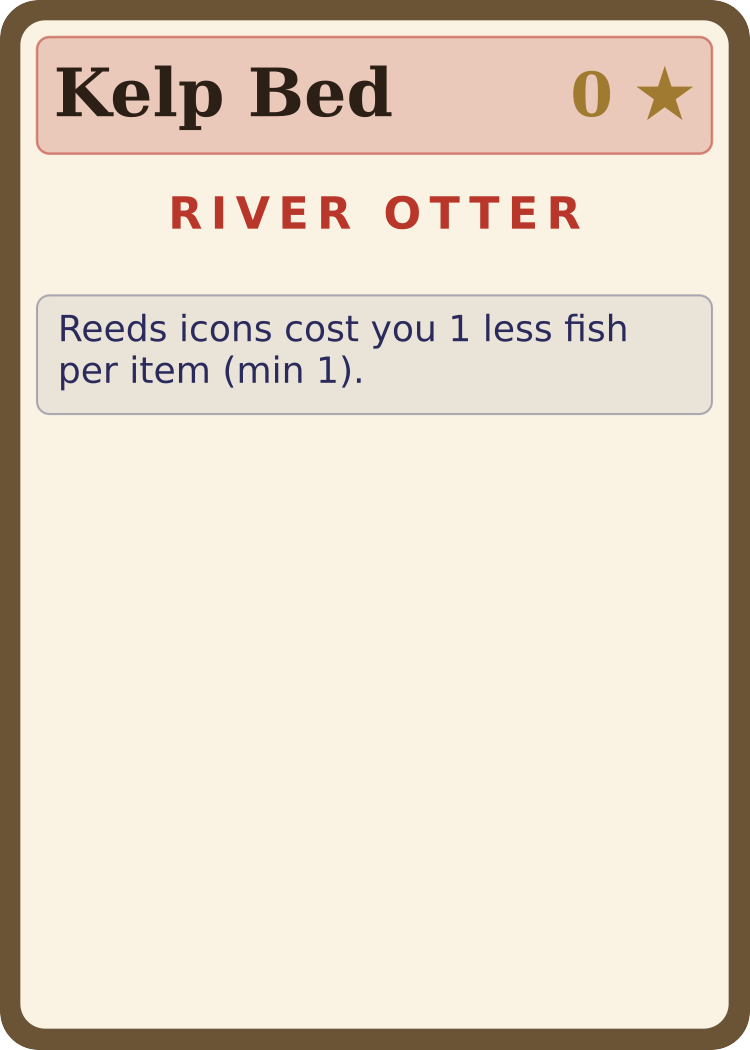
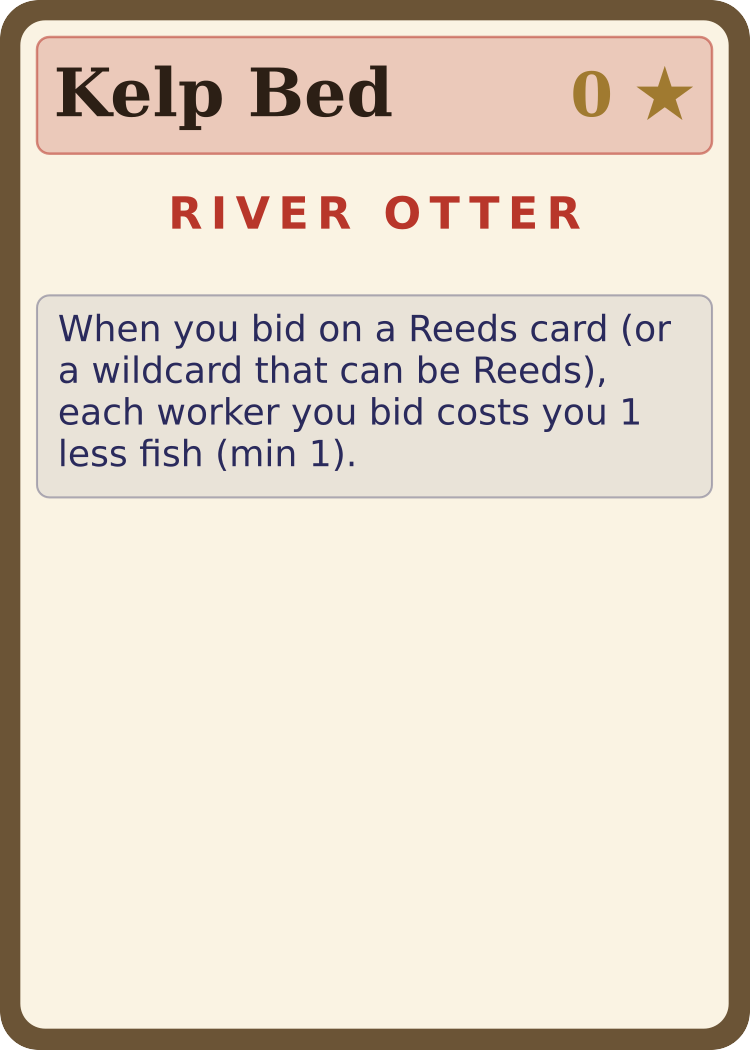
Clarify bid-discount card text (Clay Den, Kelp Bed, Mud Burrow, Reed Bed)
A 4P in-person playtest (2026-11-24) couldn't work out the discount
starters. "Clay icons cost you 2 less fish per item" reads as paying for
icons won; you actually pay per worker bid. New text: "When you bid on a
Clay card (or a wildcard that can be Clay), each worker you bid costs you
2 less fish (min 1)." Same fix on Kelp Bed, Mud Burrow and Reed Bed,
across cards.json, sim.js, web/index.html and BGA Material.php; card
PNGs regenerated.

Rulebook: starter section separates Lodge Foundation (build discount)
from the bid discounts and adds an "Example - bid discount" callout;
auction step reworded. Still 16 pages, same page breaks. Release notes
v0.4.1 (wording only).

Balance re-checked before changing anything: new measurement toggles
RB_CLAYDEN_DISC and RB_WILD_DISC (defaults = live rules). Forced-pick
species-starters sweeps (2000 games/starter, 2/3/4P) put Clay Den -2 at
or below fair share (-1 would make it the weakest Mink card), and turning
off wildcard discounts moves nothing beyond noise. No numbers changed.

Changed region(s): [[0.0613, 0.3048, 0.8893, 0.4571], [0.92, 0.4571, 0.9507, 0.4876]]

diff --git a/sim.js b/sim.js
@@ -25,7 +25,7 @@ const BASE_STRUCTURE_TEMPLATES = [
   { name: 'Hollowed-out Log', cost: { logs: 3, reeds: 1 },           time: 2, vp: 5, effect: 'Once per game (flip card): recall one of your workers from a river card (no blank).' },
   { name: 'Snag Pile',      cost: { reeds: 2, stones: 1 },           time: 2, vp: 3, effect: 'When built: auction a Headwaters card in place at 1🐟/item, free. It then flows to River 1.' },
   { name: 'Heron Watch',    cost: { stones: 4, logs: 2 },            time: 4, vp: 0, effect: 'End of game: +1 VP per shoreline card on the table (max +6).' },
-  { name: 'Reed Bed',       cost: { reeds: 3, mud: 1 },              time: 2, vp: 4, effect: 'Reed icons cost you 1 less 🐟 per item (min 1).' },
+  { name: 'Reed Bed',       cost: { reeds: 3, mud: 1 },              time: 2, vp: 4, effect: 'When you bid on a Reeds card (or a wildcard that can be Reeds), each worker you bid costs you 1 less 🐟 (min 1).' },
   { name: 'Mud Levee',      cost: { mud: 3, stones: 2 },             time: 3, vp: 6, effect: 'When built: drop 2 blanks on uncovered icons in the river.' },
   { name: 'Log Flume',    cost: { mud: 2, logs: 1 },               time: 1, vp: 2, effect: 'When you build: advance 3 fewer 🐟 (min 1; 0🐟 cards stay 0).' },
   { name: 'Cache Burrow',   cost: { mud: 2, reeds: 2 },              time: 2, vp: 4, effect: '+1 to your hand size. When built, draw a structure card.' },
@@ -80,15 +80,15 @@ const BASE_STRUCTURE_TEMPLATES = [
   { name: 'Tail Slap',        cost: { logs: 0 },                       time: 0, vp: 2, species: 'beaver', effect: 'At the start of your turn, you may pay 1 fish to drop a blank on any uncovered icon on a River 1 card.' },
   { name: 'Beaver Cache',     cost: { logs: 0 },                       time: 0, vp: 1, species: 'beaver', effect: '+1 to your hand size. When built, draw a structure card.' },
   // River Otter (Reeds bias)
-  { name: 'Kelp Bed',         cost: { logs: 0 },                       time: 0, vp: 0, species: 'otter',  effect: 'Reeds icons cost you 1 less fish per item (min 1).' },
+  { name: 'Kelp Bed',         cost: { logs: 0 },                       time: 0, vp: 0, species: 'otter',  effect: 'When you bid on a Reeds card (or a wildcard that can be Reeds), each worker you bid costs you 1 less fish (min 1).' },
   { name: 'Rolling Float',    cost: { logs: 0 },                       time: 0, vp: 1, species: 'otter',  effect: 'Once per game, swap one of your workers on a river card with another worker on a different card in the same river slot. No fish cost.' },
   { name: 'Stone Tool',       cost: { logs: 0 },                       time: 0, vp: 0, species: 'otter',  effect: 'Once per game, when building, 1 of your Stones workers may substitute for any other material.' },
   // Muskrat (Mud bias)
-  { name: 'Mud Burrow',       cost: { logs: 0 },                       time: 0, vp: 0, species: 'muskrat', effect: 'Mud icons cost you 1 less fish per item (min 1).' },
+  { name: 'Mud Burrow',       cost: { logs: 0 },                       time: 0, vp: 0, species: 'muskrat', effect: 'When you bid on a Mud card (or a wildcard that can be Mud), each worker you bid costs you 1 less fish (min 1).' },
   { name: 'Channel Clearer',  cost: { logs: 0 },                       time: 0, vp: 1, species: 'muskrat', effect: 'At the start of your turn, you may pay 1 fish to discard 1 worker from any Reeds river card (not a wild card); it returns to that player\'s supply without a blank.' },
   { name: 'Marsh Lookout',    cost: { logs: 0 },                       time: 0, vp: 2, species: 'muskrat', effect: 'Peek at the top card of the material deck at any time.' },
   // Mink (Clay bias)
-  { name: 'Clay Den',         cost: { logs: 0 },                       time: 0, vp: 0, species: 'mink',   effect: 'Clay icons cost you 2 less fish per item (min 1).' },
+  { name: 'Clay Den',         cost: { logs: 0 },                       time: 0, vp: 0, species: 'mink',   effect: 'When you bid on a Clay card (or a wildcard that can be Clay), each worker you bid costs you 2 less fish (min 1).' },
   { name: 'Quick Strike',     cost: { logs: 0 },                       time: 0, vp: 2, species: 'mink',   effect: 'When you trigger an auction, you may declare your bid last (after all other bids are revealed). You must still bid at least 1 worker, as the trigger always does.' },
   { name: 'Snare Set',        cost: { logs: 0 },                       time: 0, vp: 1, species: 'mink',   effect: 'Once per game, force an opponent to recall one of their workers from a river card (drops a blank). The opponent slides back the card\'s per-item cost in fish as compensation.' },
 ];
@@ -219,14 +219,18 @@ function totalVP(p, state) {
 const MATERIAL_DISCOUNT_CARDS = {
   reeds: { 'Reed Bed': 1, 'Kelp Bed': 1 },
   mud:   { 'Mud Burrow': 1 },
-  clay:  { 'Clay Den': 2 },
+  clay:  { 'Clay Den': process.env.RB_CLAYDEN_DISC !== undefined ? Number(process.env.RB_CLAYDEN_DISC) : 2 },
 };
+// Measurement toggle (2026-11-25): RB_WILD_DISC=0 makes per-item discounts
+// skip wildcard cards entirely (effect 'wild'). Live rule = 1 (either half).
+const WILD_DISC = process.env.RB_WILD_DISC !== undefined ? Number(process.env.RB_WILD_DISC) : 1;
 // A wildcard counts as both of its materials [rule 2026-09-23]: either half's
 // discount applies, the larger one if both do (halves never stack). Mirrors
 // web perItemDiscount.
 function playerCardCost(state, card, playerIdx) {
   const base = cardCost(card);
   const p = state.players[playerIdx];
+  if (!WILD_DISC && card.effect === 'wild') return base;
   const mats = card.wildAlt ? [card.material, card.wildAlt] : [card.material];
   let best = 0;
   for (const m of mats) {

diff --git a/web/index.html b/web/index.html
@@ -1926,7 +1926,7 @@ const STRUCTURE_TEMPLATES = [
   { name: 'Hollowed-out Log', cost: { logs: 3, reeds: 1 },           time: 2, vp: 5, effect: 'Once per game (flip card): recall one of your workers from a river card (no blank).' },
   { name: 'Snag Pile',      cost: { reeds: 2, stones: 1 },           time: 2, vp: 3, effect: 'When built: auction a Headwaters card in place at 1🐟/item, free. It then flows to River 1.' },
   { name: 'Heron Watch',    cost: { stones: 4, logs: 2 },            time: 4, vp: 0, effect: 'End of game: +1 VP per shoreline card on the table (max +6).' },
-  { name: 'Reed Bed',       cost: { reeds: 3, mud: 1 },              time: 2, vp: 4, effect: 'Reed icons cost you 1 less 🐟 per item (min 1).' },
+  { name: 'Reed Bed',       cost: { reeds: 3, mud: 1 },              time: 2, vp: 4, effect: 'When you bid on a Reeds card (or a wildcard that can be Reeds), each worker you bid costs you 1 less 🐟 (min 1).' },
   { name: 'Mud Levee',      cost: { mud: 3, stones: 2 },             time: 3, vp: 6, effect: 'When built: drop 2 blanks on uncovered icons in the river.' },
   { name: 'Log Flume',    cost: { mud: 2, logs: 1 },               time: 1, vp: 2, effect: 'When you build: advance 3 fewer 🐟 (min 1; 0🐟 cards stay 0).' },
   { name: 'Cache Burrow',   cost: { mud: 2, reeds: 2 },              time: 2, vp: 4, effect: '+1 to your hand size. When built, draw a structure card.' },
@@ -1981,15 +1981,15 @@ const STRUCTURE_TEMPLATES = [
   { name: 'Tail Slap',        cost: { logs: 0 },                       time: 0, vp: 2, species: 'beaver', effect: 'At the start of your turn, you may pay 1🐟 to drop a blank on any uncovered icon on a River 1 card.' },
   { name: 'Beaver Cache',     cost: { logs: 0 },                       time: 0, vp: 1, species: 'beaver', effect: '+1 to your hand size. When built, draw a structure card.' },
   // River Otter (Reeds bias)
-  { name: 'Kelp Bed',         cost: { logs: 0 },                       time: 0, vp: 0, species: 'otter',  effect: 'Reeds icons cost you 1 less fish per item (min 1).' },
+  { name: 'Kelp Bed',         cost: { logs: 0 },                       time: 0, vp: 0, species: 'otter',  effect: 'When you bid on a Reeds card (or a wildcard that can be Reeds), each worker you bid costs you 1 less fish (min 1).' },
   { name: 'Rolling Float',    cost: { logs: 0 },                       time: 0, vp: 1, species: 'otter',  effect: 'Once per game, swap one of your workers on a river card with another worker on a different card in the same river slot. No fish cost.' },
   { name: 'Stone Tool',       cost: { logs: 0 },                       time: 0, vp: 0, species: 'otter',  effect: 'Once per game, when building, 1 of your Stones workers may substitute for any other material.' },
   // Muskrat (Mud bias)
-  { name: 'Mud Burrow',       cost: { logs: 0 },                       time: 0, vp: 0, species: 'muskrat', effect: 'Mud icons cost you 1 less fish per item (min 1).' },
+  { name: 'Mud Burrow',       cost: { logs: 0 },                       time: 0, vp: 0, species: 'muskrat', effect: 'When you bid on a Mud card (or a wildcard that can be Mud), each worker you bid costs you 1 less fish (min 1).' },
   { name: 'Channel Clearer',  cost: { logs: 0 },                       time: 0, vp: 1, species: 'muskrat', effect: 'At the start of your turn, you may pay 1 fish to discard 1 worker from any Reeds river card (not a wild card); it returns to that player\'s supply without a blank.' },
   { name: 'Marsh Lookout',    cost: { logs: 0 },                       time: 0, vp: 2, species: 'muskrat', effect: 'Peek at the top card of the material deck at any time.' },
   // Mink (Clay bias)
-  { name: 'Clay Den',         cost: { logs: 0 },                       time: 0, vp: 0, species: 'mink',   effect: 'Clay icons cost you 2 less fish per item (min 1).' },
+  { name: 'Clay Den',         cost: { logs: 0 },                       time: 0, vp: 0, species: 'mink',   effect: 'When you bid on a Clay card (or a wildcard that can be Clay), each worker you bid costs you 2 less fish (min 1).' },
   { name: 'Quick Strike',     cost: { logs: 0 },                       time: 0, vp: 2, species: 'mink',   effect: 'When you trigger an auction, you may declare your bid last (after all other bids are revealed). You must still bid at least 1 worker, as the trigger always does.' },
   { name: 'Snare Set',        cost: { logs: 0 },                       time: 0, vp: 1, species: 'mink',   effect: 'Once per game, force an opponent to recall one of their workers from a river card (drops a blank). The opponent slides back the card\'s per-item cost in 🐟 as compensation.' },
 ];

diff --git a/rulebook/rulebook.html b/rulebook/rulebook.html
@@ -943,7 +943,9 @@
 </p>
 <p>
   Each species' pool is built around a <strong>material bias</strong> — one of the three cards
-  per pool reduces the per-item fish cost (or build advance) of that species' signature material.
+  per pool favours that species' signature material. Kelp Bed, Mud Burrow and Clay Den make your
+  <em>bids</em> on that material cheaper (see Resolving the auction); Lodge Foundation instead
+  makes <em>building</em> with logs cheaper.
   Stones and Vines are intentionally unaligned with any species, so the auction tension on those
   two stays open. Picking the bias card commits you to a material specialty; picking either of the
   other two trades that bias for a sharper tactical tool.
@@ -971,6 +973,14 @@
 </div>
 <div style="font-size: 8.5pt; color: var(--ink-soft); font-style: italic; text-align: center; margin-top: -2pt;">
   The four material-bias starters — one per species.
+</div>
+
+<div class="callout example">
+  <div class="label">Example — bid discount</div>
+  <span class="worker mink"></span> You hold Clay Den and bid 3 on a <strong>clay</strong> card at
+  <strong>River 3</strong> (4🐟/item): you pay <strong>3 × (4 − 2) = 6🐟</strong>, win or lose.
+  An opponent bidding on the same card pays the full 4🐟 per worker. In the Headwaters you'd both
+  pay 1🐟 per worker &mdash; a discount never goes below 1.
 </div>
 
 <p style="margin-top: 8pt;">
@@ -1167,9 +1177,9 @@
     <strong>Pay fish first.</strong> Every bidder slides their pawn forward on the fish track by
     <em>their bid × the card's per-item cost</em> (1🐟 in the Headwaters; 2/3/4/5🐟 for
     River 1/2/3/4). <strong>You pay for every worker you bid, win or lose</strong> — the fish are
-    spent on the swim, not on the prize. Structure effects that discount a material's per-item cost
-    (Reed Bed, Kelp Bed, Mud Burrow, Clay Den) stack with each other, but a per-item cost never drops
-    below 1🐟. A wildcard counts as both of its materials for discounts (use the larger if both apply). Bidders pay one at a time, the triggering player last, so if pawns land on the same
+    spent on the swim, not on the prize. <strong>Bid discounts</strong> (Reed Bed, Kelp Bed, Mud Burrow, Clay Den)
+    lower <em>your</em> per-item cost on their material for every worker you bid, and stack, but
+    never below 1🐟. A wildcard counts as both its materials (use the larger). Bidders pay one at a time, the triggering player last, so if pawns land on the same
     space, the trigger's pawn is on top.
   </li>
   <li>

diff --git a/rulebook/release-notes.html b/rulebook/release-notes.html
@@ -56,6 +56,25 @@
   <span class="sub">Changelog · newest version first</span>
 </div>
 
+<h2>Version v0.4.1 (November 2026)</h2>
+
+<p class="lead">Wording only &mdash; no rule or balance change. At a November 4-player playtest the
+table couldn&rsquo;t work out how the bid-discount cards work.</p>
+
+<h3>Rule clarifications</h3>
+<ul>
+  <li><strong>Bid discounts reworded.</strong> Kelp Bed, Mud Burrow, Clay Den and Reed Bed used to
+      say &ldquo;<em>Clay icons cost you 2 less fish per item</em>&rdquo;, which reads as paying for
+      the icons you win. You pay per worker you <em>bid</em>, so they now say: &ldquo;When you bid
+      on a Clay card (or a wildcard that can be Clay), each worker you bid costs you 2 less fish
+      (min 1).&rdquo; The rulebook&rsquo;s auction section spells out the rest (every worker bid,
+      win or lose; only your own bid; nothing in the Headwaters) and adds a worked example. Lodge
+      Foundation is described separately as a <em>build</em> discount.</li>
+  <li><strong>Balance re-checked, unchanged.</strong> Forced-pick simulations at 2, 3 and 4
+      players (2,000 games per starter) found Clay Den&rsquo;s &minus;2 and the wildcard rule both
+      at or below fair share, so the numbers stay as they are.</li>
+</ul>
+
 <h2>Version v0.4 (September 2026)</h2>
 
 <p class="lead">A small, focused pass on <strong>interaction compensation</strong>, prompted by a

diff --git a/bga/modules/php/Material.php b/bga/modules/php/Material.php
@@ -59,7 +59,7 @@ class Material
         1 => ['name' => 'Hollowed-out Log', 'cost' => ['logs' => 3, 'reeds' => 1], 'time' => 2, 'vp' => '5', 'effect' => 'Once per game (flip card): recall one of your workers from a river card (no blank).'],
         2 => ['name' => 'Snag Pile', 'cost' => ['reeds' => 2, 'stones' => 1], 'time' => 2, 'vp' => '3', 'effect' => 'When built: auction a Headwaters card in place at 1🐟/item, free. It then flows to River 1.'],
         3 => ['name' => 'Heron Watch', 'cost' => ['stones' => 4, 'logs' => 2], 'time' => 4, 'vp' => '0', 'effect' => 'End of game: +1 VP per shoreline card on the table (max +6).'],
-        4 => ['name' => 'Reed Bed', 'cost' => ['reeds' => 3, 'mud' => 1], 'time' => 2, 'vp' => '4', 'effect' => 'Reed icons cost you 1 less 🐟 per item (min 1).'],
+        4 => ['name' => 'Reed Bed', 'cost' => ['reeds' => 3, 'mud' => 1], 'time' => 2, 'vp' => '4', 'effect' => 'When you bid on a Reeds card (or a wildcard that can be Reeds), each worker you bid costs you 1 less 🐟 (min 1).'],
         5 => ['name' => 'Mud Levee', 'cost' => ['mud' => 3, 'stones' => 2], 'time' => 3, 'vp' => '6', 'effect' => 'When built: drop 2 blanks on uncovered icons in the river.'],
         6 => ['name' => 'Log Flume', 'cost' => ['mud' => 2, 'logs' => 1], 'time' => 1, 'vp' => '2', 'effect' => 'When you build: advance 3 fewer 🐟 (min 1; 0🐟 cards stay 0).'],
         7 => ['name' => 'Cache Burrow', 'cost' => ['mud' => 2, 'reeds' => 2], 'time' => 2, 'vp' => '4', 'effect' => '+1 to your hand size. When built, draw a structure card.'],
@@ -123,13 +123,13 @@ End of game: +3 VP per built structure of yours that uses Mud (max +9).'],
         0 => ['name' => 'Lodge Foundation', 'species' => 'beaver', 'vp' => 1, 'effect' => 'When you build a structure that uses Logs, advance 1 fewer fish.'],
         1 => ['name' => 'Tail Slap', 'species' => 'beaver', 'vp' => 2, 'effect' => 'At the start of your turn, you may pay 1 fish to drop a blank on any uncovered icon on a River 1 card.'],
         2 => ['name' => 'Beaver Cache', 'species' => 'beaver', 'vp' => 1, 'effect' => '+1 to your hand size. When built, draw a structure card.'],
-        3 => ['name' => 'Kelp Bed', 'species' => 'otter', 'vp' => 0, 'effect' => 'Reeds icons cost you 1 less fish per item (min 1).'],
+        3 => ['name' => 'Kelp Bed', 'species' => 'otter', 'vp' => 0, 'effect' => 'When you bid on a Reeds card (or a wildcard that can be Reeds), each worker you bid costs you 1 less fish (min 1).'],
         4 => ['name' => 'Rolling Float', 'species' => 'otter', 'vp' => 1, 'effect' => 'Once per game, swap one of your workers on a river card with another worker on a different card in the same river slot. No fish cost.'],
         5 => ['name' => 'Stone Tool', 'species' => 'otter', 'vp' => 0, 'effect' => 'Once per game, when building, 1 of your Stones workers may substitute for any other material.'],
-        6 => ['name' => 'Mud Burrow', 'species' => 'muskrat', 'vp' => 0, 'effect' => 'Mud icons cost you 1 less fish per item (min 1).'],
+        6 => ['name' => 'Mud Burrow', 'species' => 'muskrat', 'vp' => 0, 'effect' => 'When you bid on a Mud card (or a wildcard that can be Mud), each worker you bid costs you 1 less fish (min 1).'],
         7 => ['name' => 'Channel Clearer', 'species' => 'muskrat', 'vp' => 1, 'effect' => 'At the start of your turn, you may pay 1 fish to discard 1 worker from any Reeds river card (not a wild card); it returns to that player\'s supply without a blank.'],
         8 => ['name' => 'Marsh Lookout', 'species' => 'muskrat', 'vp' => 2, 'effect' => 'Peek at the top card of the material deck at any time.'],
-        9 => ['name' => 'Clay Den', 'species' => 'mink', 'vp' => 0, 'effect' => 'Clay icons cost you 2 less fish per item (min 1).'],
+        9 => ['name' => 'Clay Den', 'species' => 'mink', 'vp' => 0, 'effect' => 'When you bid on a Clay card (or a wildcard that can be Clay), each worker you bid costs you 2 less fish (min 1).'],
         10 => ['name' => 'Quick Strike', 'species' => 'mink', 'vp' => 2, 'effect' => 'When you trigger an auction, you may declare your bid last (after all other bids are revealed). You must still bid at least 1 worker, as the trigger always does.'],
         11 => ['name' => 'Snare Set', 'species' => 'mink', 'vp' => 1, 'effect' => 'Once per game, force an opponent to recall one of their workers from a river card (drops a blank). The opponent slides back the card\'s per-item cost in fish as compensation.'],
     ];
